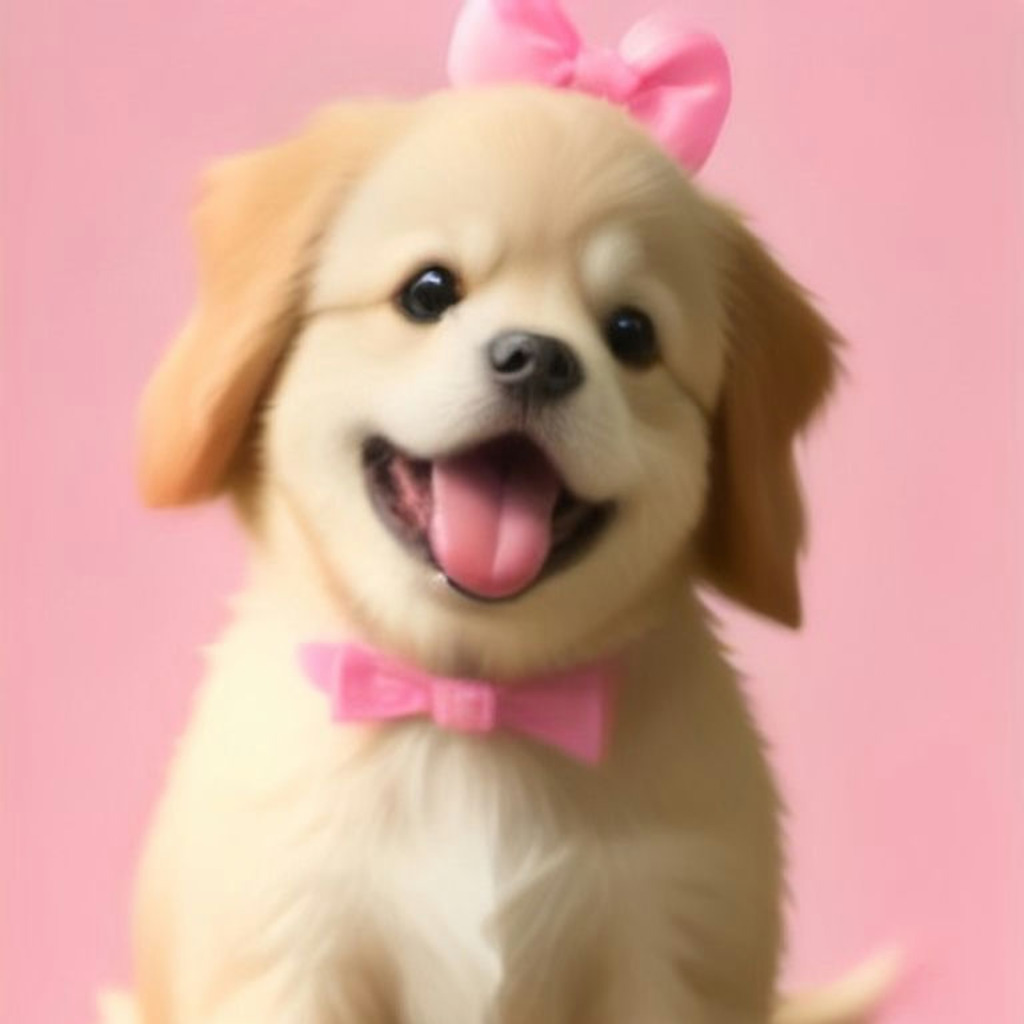
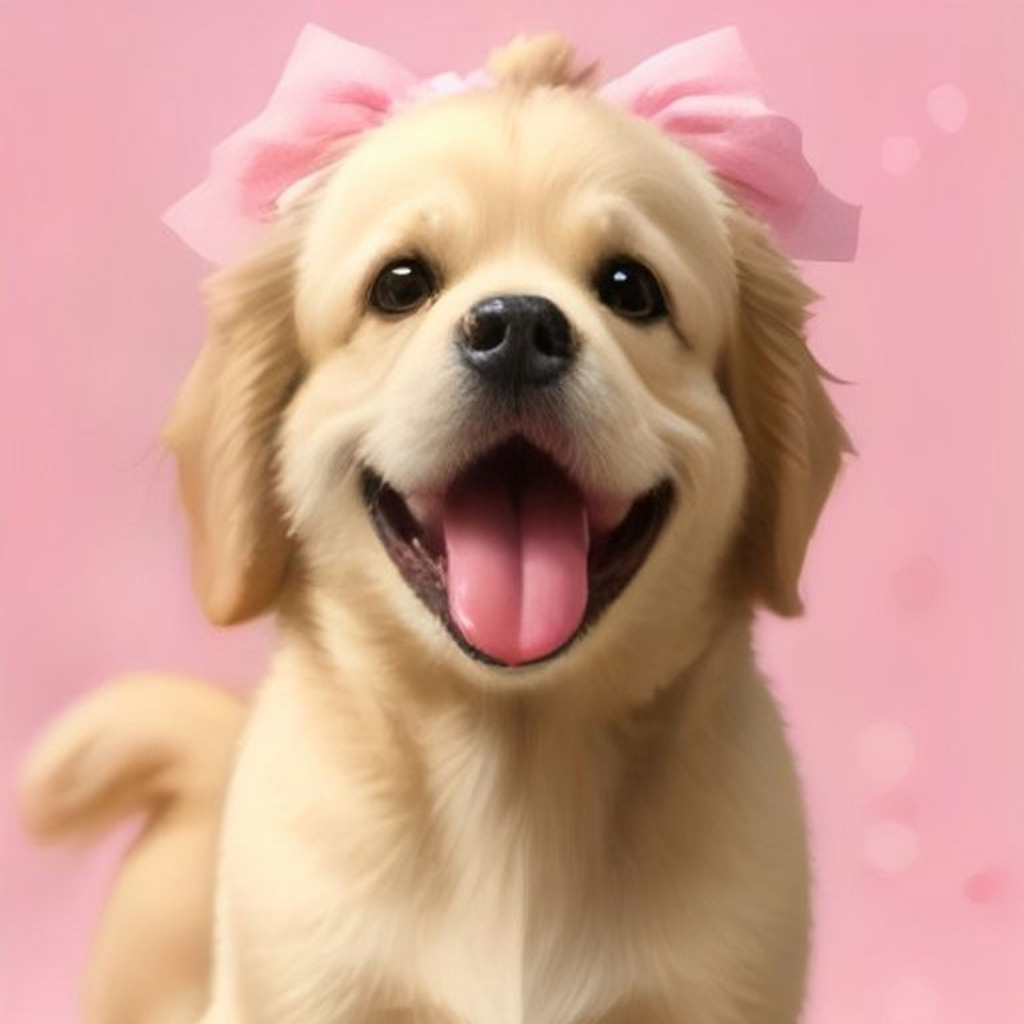
Final: golden puppy with two pink bows (best dev score)

diff --git a/README.md b/README.md
@@ -16,7 +16,7 @@ calls, uses no randomness, and writes byte-identical output on every run.
 
 - Generated for this entry with the free Pollinations.ai image API
   (https://image.pollinations.ai), a Flux-class text-to-image model.
-- Prompt: “a happy golden retriever puppy with a big head tilt and a huge open-mouth grin, tongue out, wearing a pink bow and a pink bow tie, big glossy eyes, soft 3D render, kawaii, clean pastel pink studio background, centered, high detail”...
+- Prompt: “a happy golden retriever puppy with a big head tilt and a huge open-mouth grin, tongue out, wearing two small pink bows, huge glossy eyes, soft 3D render, kawaii, clean pastel pink studio background, centered, high detail”....
 - The image is an original generation for this entry: it is not a copy of a
   third-party character, photograph or artwork.
 - Pollinations API documentation and terms:
